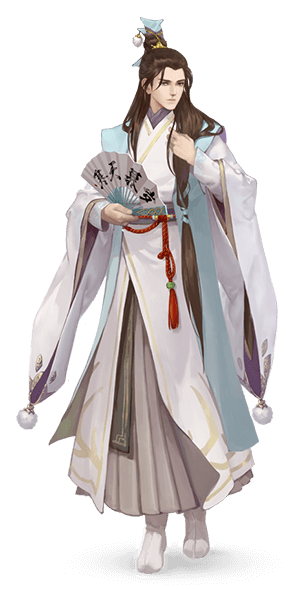
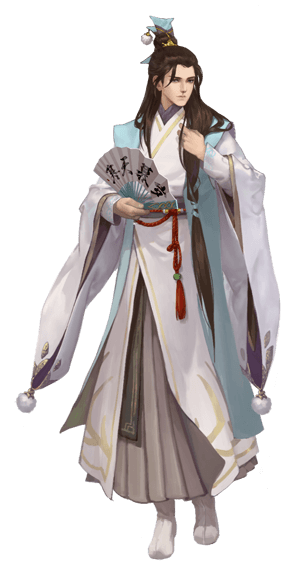
动图 接口变更

diff --git a/src/single/character/Character.jsx b/src/single/character/Character.jsx
@@ -17,21 +17,37 @@ let HASH = {
     Skip: -1,
     authorId: window.HETU_ID,
     state: window.FOLLOW_HETU,
+    img: `//${location.host}/src/single/character/hetu_a.png`,
+    w: 367,
+    h: 580,
+    n: 181
   },
   'sixia': {
     Skip: -1,
     authorId: window.SIXIA_ID,
     state: window.FOLLOW_SIXIA,
+    img: `//${location.host}/src/single/character/sixia_a.png`,
+    w: 367,
+    h: 472,
+    n: 181
   },
   'muhan': {
     Skip: -1,
     authorId: window.MUHAN_ID,
     state: window.FOLLOW_MUHAN,
+    img: `//${location.host}/src/single/character/muhan_a.png`,
+    w: 300,
+    h: 574,
+    n: 181
   },
   'mi': {
     Skip: -1,
     authorId: window.MI_ID,
     state: window.FOLLOW_MI,
+    img: `//${location.host}/src/single/character/mi_a.png`,
+    w: 300,
+    h: 499,
+    n: 181
   },
   'jiemeng': {
     Skip: -1,
@@ -39,6 +55,8 @@ let HASH = {
     state: window.FOLLOW_JIEMENG,
   }
 };
+let index = 0;
+let showAnimate;
 let $wrap;
 let $cp;
 
@@ -74,7 +92,41 @@ class Character extends migi.Component{
   @bind hasContent
   @bind loading
   user(name) {
-    this.name = name;
+    let self = this;
+    self.name = name;
+    let hash = HASH[name];
+    showAnimate = true;
+    index = 0;
+    if(hash.animate) {
+      hash.animate();
+    }
+    else if(hash.img) {
+      let bg = self.ref.img.element;
+      let img = new Image();
+      img.onload = function() {
+        if(self.name !== name) {
+          return;
+        }
+        function anm() {
+          if(!showAnimate) {
+            return;
+          }
+          let x = hash.w * (index % 20);
+          let y = hash.h * Math.floor(index / 20);
+          bg.style.backgroundImage = `url(${hash.img})`;
+          bg.style.backgroundPosition = `${-x}px ${-y}px`;
+          bg.style.backgroundSize = 'auto';
+          index++;
+          if(index >= hash.n) {
+            index = 0;
+          }
+          requestAnimationFrame(anm);
+        }
+        hash.animate = anm;
+        anm();
+      };
+      img.src = hash.img;
+    }
   }
   show() {
     let self = this;
@@ -84,7 +136,7 @@ class Character extends migi.Component{
     setTimeout(function() {
       $(self.ref.left.element).addClass('on');
       $(self.ref.right.element).addClass('on');
-    }, 200);
+    }, 100);
   }
   hide() {
     $(this.element).addClass('fn-hide');
@@ -103,6 +155,8 @@ class Character extends migi.Component{
       HASH[key].Skip = -1;
       HASH[key].end = false;
     });
+    showAnimate = false;
+    this.ref.img.element.removeAttribute('style');
   }
   clickFollow(e, vd) {
     e.preventDefault();
@@ -322,7 +376,7 @@ class Character extends migi.Component{
       <div class={ 'comments' + (this.showComment ? '' : ' fn-hide') } ref="comments">
         <div class="c">
           <div class="wrap" ref="wrap">
-            <Comment ref="comment"/>
+            <Comment ref="comment" zanUrl="author/AddWorkCommentLike" subUrl="author/GetTocomment_T_List" delUrl="author/DeleteCommentByID"/>
           </div>
           <a href="#" class="close" onClick={ this.clickClose }/>
           <ul class="type2 fn-clear" onClick={ { li: this.switchType2 } }>

diff --git a/src/single/character/Comment.jsx b/src/single/character/Comment.jsx
@@ -42,7 +42,7 @@ class Comment extends migi.Component {
       $root.on('click', '.zan', function() {
         let $span = $(this);
         let CommentID = $span.attr('cid');
-        util.postJSON('author/AddWorkCommentLike', { CommentID }, function(res) {
+        util.postJSON(self.props.zanUrl, { CommentID }, function(res) {
           if(res.success) {
             let data = res.data;
             if(data.State === 'likeWordsUser') {
@@ -62,7 +62,7 @@ class Comment extends migi.Component {
         let $message = $(this);
         let rid = $message.attr('rid');
         $message.removeClass('more').text('读取中...');
-        ajax = util.postJSON('author/GetTocomment_T_List', { RootID: rid, Skip: subSkipHash[rid], Take }, function(res) {
+        ajax = util.postJSON(self.props.subUrl, { RootID: rid, Skip: subSkipHash[rid], Take }, function(res) {
           if(res.success) {
             let data = res.data;
             if(data.data.length) {
@@ -107,7 +107,7 @@ class Comment extends migi.Component {
       $root.on('click', '.remove', function() {
         let $btn = $(this);
         let cid = $btn.attr('cid');
-        util.postJSON('author/DeleteCommentByID', { CommentID: cid }, function(res) {
+        util.postJSON(self.props.delUrl, { CommentID: cid }, function(res) {
           if(res.success) {
             $btn.closest('li').remove();
           }
@@ -162,7 +162,7 @@ class Comment extends migi.Component {
       else {
         $list2.css('height', 'auto');
         subLoadHash[rid] = IS_LOADING;
-        ajax = util.postJSON('author/GetTocomment_T_List', { RootID: rid, Skip: -1, Take }, function(res) {
+        ajax = util.postJSON(self.props.subUrl, { RootID: rid, Skip: -1, Take }, function(res) {
           if(res.success) {
             subLoadHash[rid] = HAS_LOADED;
             let s = '';

diff --git a/src/single/work/Audio.jsx b/src/single/work/Audio.jsx
@@ -34,10 +34,9 @@ class Audio extends migi.Component {
     self.rollLyrics = data[0].formatLyrics.data;
     let count = 0;
     $lyricsRoll = $(self.ref.lyricsRoll.element);
-    $lyricsRoll.find('pre').each(function(i, o) {
-      let $o = $(o);
+    $lyricsRoll.find('pre').each(function() {
       lyricsHeight.push(count);
-      count += $o.height();
+      count += 20;
     });
     return this;
   }
@@ -74,23 +73,6 @@ class Audio extends migi.Component {
         $lyricsRoll.css('-webkit-transform', `translate3d(0,${-lyricsHeight[lyricsIndex]}px,0)`);
         $lyricsRoll.css('transform', `translate3d(0,${-lyricsHeight[lyricsIndex]}px,0)`);
       }
-      // let start = 0;
-      // if(lyricsIndex > 0) {
-      //   start = lyricsHeight[lyricsIndex];
-      // }
-      // let end = lyricsHeight[lyricsIndex + 1] || start;
-      // let percent;
-      // if(lyricsIndex && formatLyricsData[lyricsIndex + 1]) {
-      //   percent = (currentTime * 1000 - formatLyricsData[lyricsIndex].timestamp)
-      //     / (formatLyricsData[lyricsIndex + 1].timestamp - formatLyricsData[lyricsIndex].timestamp);
-      // }
-      // else if(formatLyricsData[lyricsIndex + 1]) {
-      //   percent = currentTime * 1000 / formatLyricsData[lyricsIndex + 1].timestamp;
-      // }
-      // let top = start + (end - start) * percent;
-      // // console.log(lyricsIndex, percent, start, end, top);
-      // $lyricsRoll.css('-webkit-transform', `translate3d(0,${-top}px,0)`);
-      // $lyricsRoll.css('transform', `translate3d(0,${-top}px,0)`);
     }
     this.emit('timeupdate', currentTime);
   }

diff --git a/src/single/work/WorkComment.jsx b/src/single/work/WorkComment.jsx
@@ -25,15 +25,6 @@ class WorkComment extends migi.Component {
     let self = this;
     self.on(migi.Event.DOM, function() {
       $main = $('.main.work');
-      // self.ref.comment.on('chooseSubComment', function(rid, cid, name) {
-      //   self.rootId = rid;
-      //   self.replayId = cid;
-      //   self.replayName = name;
-      //   commentType = 4;
-      // });
-      // self.ref.comment.on('noSubComment', function() {
-      //   self.clickReplay();
-      // });
       $window.on('scroll', function() {
         self.checkMore();
       });
@@ -79,6 +70,7 @@ class WorkComment extends migi.Component {
         else {
           self.ref.comment.showComment(res.data.data);
           self.ref.comment.message = '暂无评论';
+          loadEnd = true;
         }
       }
       else {
@@ -132,7 +124,7 @@ class WorkComment extends migi.Component {
   }
   render() {
     return <div class="comments fn-hide">
-      <Comment ref="comment"/>
+      <Comment ref="comment" zanUrl="works/AddWorkCommentLike" subUrl="works/GetTocomment_T_List" delUrl="works/DeleteCommentByID"/>
     </div>;
   }
 }

diff --git a/src/single/character/index.less b/src/single/character/index.less
@@ -105,7 +105,7 @@
         right:49%;
         top:50%;
         width:300px;
-        height:589px;
+        height:574px;
         background:url(muhan.png) no-repeat center;
         background-size:contain;
         transform:translateY(-50%);
@@ -129,7 +129,7 @@
         right:45%;
         top:50%;
         width:367px;
-        height:500px;
+        height:472px;
         background:url(sixia.png) no-repeat center;
         background-size:contain;
         transform:translateY(-50%);

diff --git a/webpack.config.js b/webpack.config.js
@@ -5,7 +5,11 @@ const webpack = require("webpack");
 module.exports = {
   entry: {
     common: './src/common/index.js',
-    single: './src/single/index.jsx'
+    single: './src/single/index.jsx',
+    mi_a: './src/single/character/mi_a.png',
+    sixia_a: './src/single/character/sixia_a.png',
+    hetu_a: './src/single/character/hetu_a.png',
+    muhan_a: './src/single/character/muhan_a.png'
   },
   output: {
     path: __dirname + '/www',

diff --git a/src/single/scomment/SComment.jsx b/src/single/scomment/SComment.jsx
@@ -98,7 +98,7 @@ class SComment extends migi.Component {
       <div class="con">
         <div class="c">
           <div class="wrap">
-            <Comment ref="comment"/>
+            <Comment ref="comment" zanUrl="author/AddWorkCommentLike" subUrl="author/GetTocomment_T_List" delUrl="author/DeleteCommentByID"/>
           </div>
           <div class="form">
             <div class="inputs">

diff --git a/src/single/single.html b/src/single/single.html
@@ -25,10 +25,10 @@
   var FOLLOW_MI = '0';
   var FOLLOW_JIEMENG = '0';
   var HETU_ID = '1';
-  var SIXIA_ID = '2';
-  var MUHAN_ID = '46';
-  var MI_ID = '72';
-  var JIEMENG_ID = '4195';
+  var SIXIA_ID = '42';
+  var MUHAN_ID = '2';
+  var MI_ID = '3';
+  var JIEMENG_ID = '5';
   var LUCK_MES = '';
 </script>
 <div id="page" class="page"></div>

diff --git a/src/single/work/Work.jsx b/src/single/work/Work.jsx
@@ -112,7 +112,7 @@ class Work extends migi.Component {
       if(ajax) {
         ajax.abort();
       }
-      ajax = util.postJSON('author/AddComment', {
+      ajax = util.postJSON('works/AddComment', {
         ParentID,
         RootID,
         Content,

diff --git a/src/single/work/itemTemplate.js b/src/single/work/itemTemplate.js
@@ -12,7 +12,7 @@ export default function(workType) {
           return weight.indexOf(a.WorksAuthorType) > weight.indexOf(b.WorksAuthorType);
         }
       };
-    case 2110:
+    case 2111:
       return {
         bigType: 'video',
       };

diff --git a/src/single/character/comment.less b/src/single/character/comment.less
@@ -3,6 +3,7 @@
  */
 
 .cp_comment{
+  min-height:2rem;
   .copy{
     position:fixed;
     top:0;
